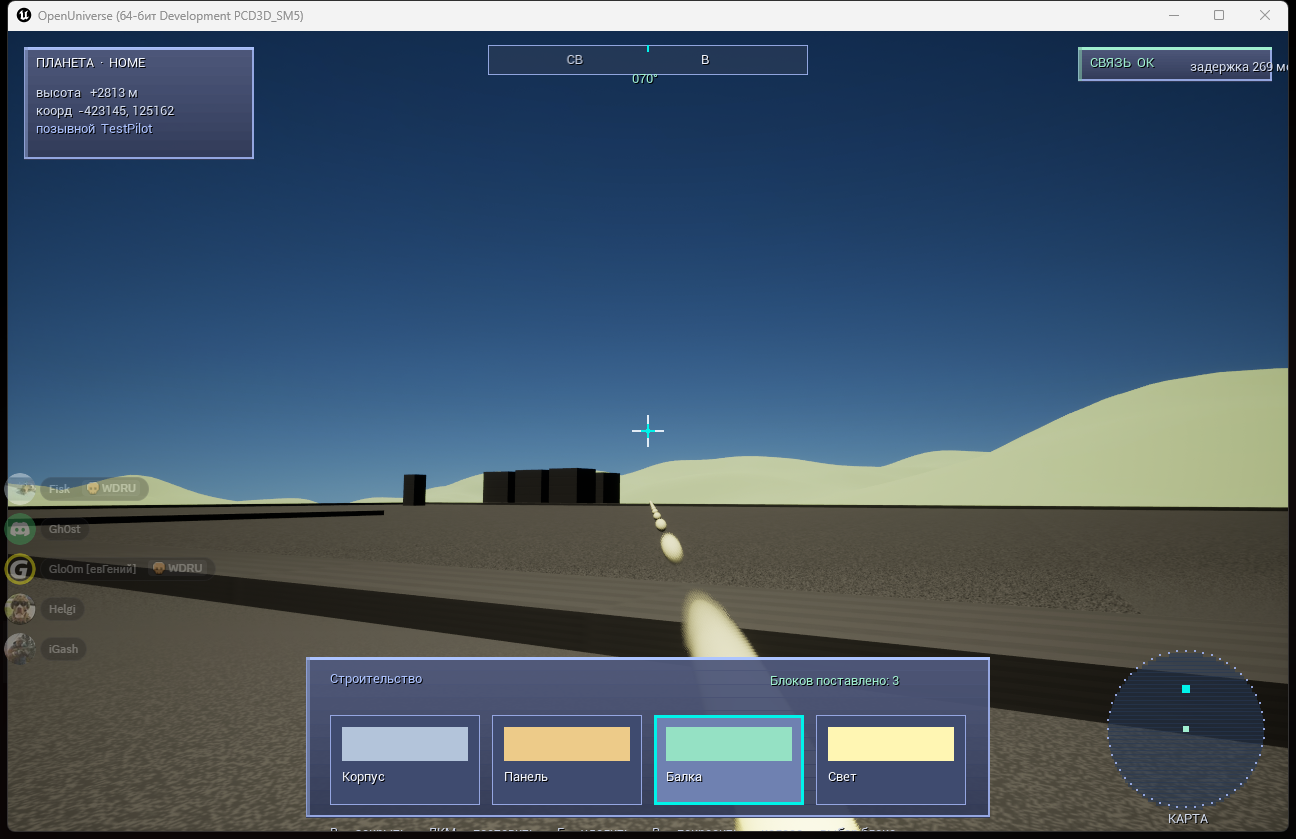
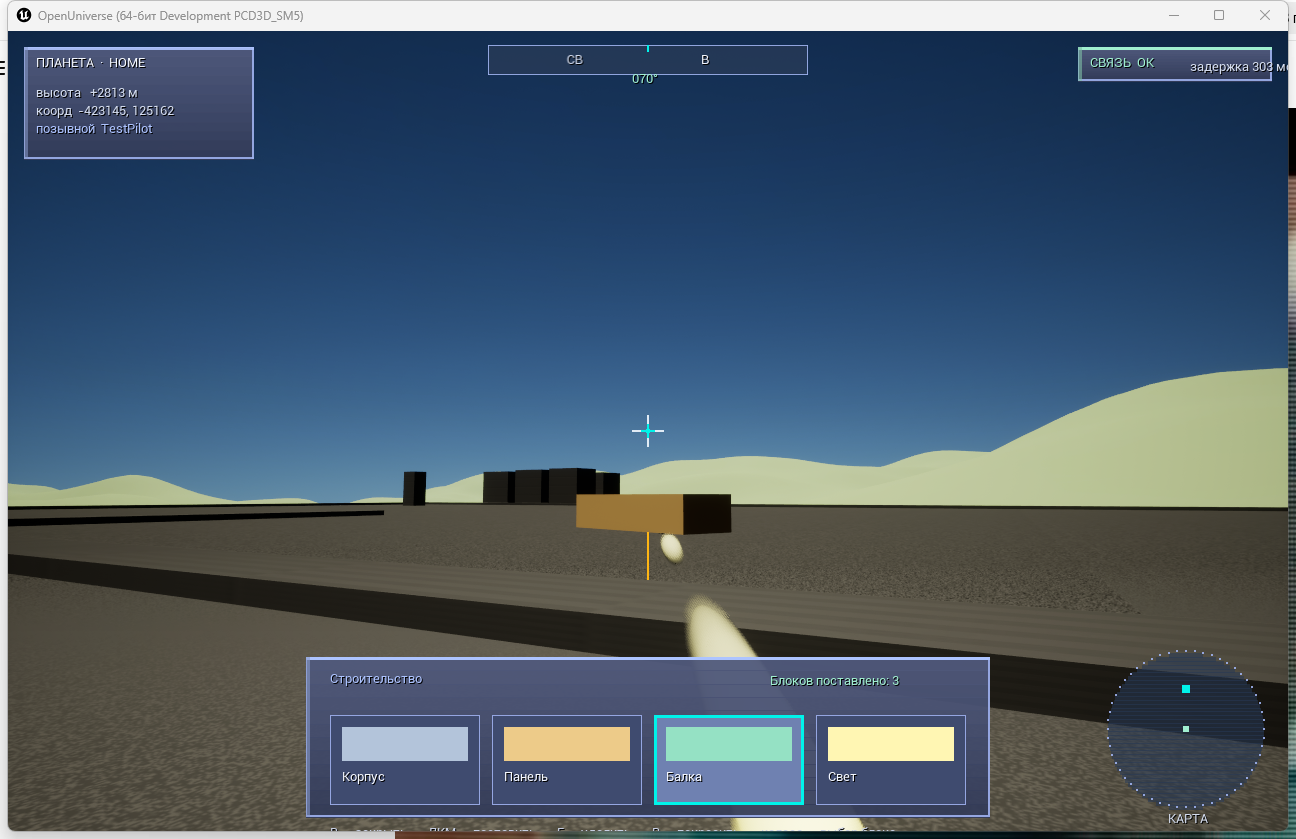
feat(client): voxel terraces around base (DU-style steps) instead of smooth ramp

diff --git a/client/Source/OpenUniverse/OUVoxelPlanet.cpp b/client/Source/OpenUniverse/OUVoxelPlanet.cpp
@@ -81,6 +81,13 @@ AOUVoxelPlanet::AOUVoxelPlanet()
 	LocalMesh->bUseAsyncCooking = true;
 	LocalMesh->SetCollisionEnabled(ECollisionEnabled::NoCollision);
 
+	// Воксельная площадка базы: свой мелкий меш (ступени). Коллизию не даём —
+	// физику ведёт «земля» персонажа по той же формуле террас.
+	PadMesh = CreateDefaultSubobject<UProceduralMeshComponent>(TEXT("BasePadVoxelMesh"));
+	PadMesh->SetupAttachment(Mesh);
+	PadMesh->bUseAsyncCooking = true;
+	PadMesh->SetCollisionEnabled(ECollisionEnabled::NoCollision);
+
 	// Материал обязателен: без него процедурный меш в UE не виден.
 	// Берём материал, который рисует **цвет вершин** — иначе планета была бы
 	// однотонно-белой и весь рельеф (вода/песок/трава/снег) потерялся бы.
@@ -263,8 +270,9 @@ float AOUVoxelPlanet::HeightAt(const FVector& Direction) const
 
 double AOUVoxelPlanet::PadFlattenCm(const FVector& DirUE)
 {
-	// Выравнивание площадки базы: внутри — плоский пол на уровне самой высокой
-	// земли площадки + подъём, у края — плавный пандус к рельефу, дальше — ноль.
+	// Рельеф площадки базы: ВНУТРИ — плоский пол, ПО КРАЮ — воксельные
+	// террасы (ступени), а не гладкий пандус. Так на базу поднимаешься по
+	// ступенькам, как в Dual Universe.
 	//
 	// ВАЖНО: центр базы и уровень пола ПОСТОЯННЫ, а функция вызывается на каждой
 	// вершине меша и при каждом шаге персонажа. `HomeSpawn` внутри создаёт
@@ -289,14 +297,45 @@ double AOUVoxelPlanet::PadFlattenCm(const FVector& DirUE)
 	static const double DeckAbs = R + static_cast<double>(DeckLevelAboveCenterCm());
 	// Аналитическая земля в этой точке (в см над центром планеты).
 	const double Here = R + AnalyticHeightCm(D);
-	const double Delta = DeckAbs - Here;
+	// Сколько надо «срезать» (cut) или «досыпать» (fill), чтобы выйти на пол.
+	const double Span = DeckAbs - Here;
 	if (DistCm <= PadR)
 	{
-		return Delta;                                  // ровный пол
+		return Span;                                   // ровный пол площадки
 	}
-	const double T0 = (DistCm - PadR) / RampW;
-	const double T = T0 * T0 * (3.0 - 2.0 * T0);       // smoothstep
-	return Delta * (1.0 - T);                          // пандус к рельефу
+	// --- Воксельные террасы ---
+	// Полный перепад Span делим на целое число ступеней по ~1 вокселю, поэтому
+	// ВНЕШНЯЯ ступень ровно ложится на рельеф (без уступа у самой земли).
+	const double Voxel = static_cast<double>(PadVoxelCm);
+	double Steps = FMath::Max(1.0, FMath::RoundToDouble(FMath::Abs(Span) / Voxel));
+	const double Step = Span / Steps;                  // знак учитывает cut/fill
+	const double T = (DistCm - PadR) / RampW;          // 0..1 вдоль пандуса
+	const double K = FMath::Clamp(FMath::Floor(T * Steps + 1e-6), 0.0, Steps);
+	const double H = DeckAbs - K * Step;               // высота ступени (абс.)
+	return H - Here;
+}
+
+double AOUVoxelPlanet::PadDistanceCm(const FVector& DirUE)
+{
+	// Дуговое расстояние (см) от центра базы до направления — в тех же осях,
+	// что и высота. 0 в центре базы.
+	//
+	// Кэш (static): функция вызывается на КАЖДОЙ ячейке меша, а `HomeSpawn`
+	// создаёт объект планеты — без кэша это миллионы аллокаций и зависание.
+	static const FVector BaseCenter = AOUVoxelPlanet::HomeSpawn(3.0f);
+	if (BaseCenter.IsNearlyZero())
+	{
+		return 1e18;
+	}
+	const FVector UpB = BaseCenter.GetSafeNormal();
+	const FVector D = DirUE.GetSafeNormal();
+	if (UpB.IsNearlyZero() || D.IsNearlyZero())
+	{
+		return 1e18;
+	}
+	const double R = static_cast<double>(BaseCenter.Size());
+	const double CosA = FMath::Clamp(FVector::DotProduct(D, UpB), -1.0, 1.0);
+	return FMath::Acos(CosA) * R;
 }
 
 double AOUVoxelPlanet::DeckLevelAboveCenterCm()
@@ -723,6 +762,10 @@ void AOUVoxelPlanet::BuildPlanet()
 
 	UE_LOG(LogOUPlanet, Log, TEXT("Планета построена: LOD сегментов %d, секций %d"), Seg, SectionIndex);
 
+	// Воксельная площадка базы: отдельный мелкий меш со ступенями (глобальный
+	// меш слишком грубый, чтобы их показать).
+	BuildPadMesh();
+
 	// Атмосфера и облака зависят от типа планеты (у безвоздушных их нет).
 	BuildAtmosphere();
 }
@@ -806,6 +849,14 @@ void AOUVoxelPlanet::RebuildLocal(const FVector& AroundUE)
 	{
 		for (int32 I = 0; I < N; ++I)
 		{
+			// Внутри площадки базы ячейку НЕ рисуем: там свой мелкий воксельный
+			// меш ступеней, а грубая ячейка (~21 м) перекрыла бы его и торчала
+			// бы сквозь ровный пол.
+			const int32 A0 = J * (N + 1) + I;
+			if (PadDistanceCm(Verts[A0].GetSafeNormal()) < PadOuterRadiusCm)
+			{
+				continue;
+			}
 			const int32 A = J * (N + 1) + I;
 			const int32 B = A + 1;
 			const int32 C = A + (N + 1);
@@ -829,6 +880,171 @@ void AOUVoxelPlanet::RebuildLocal(const FVector& AroundUE)
 	LocalMesh->CreateMeshSection_LinearColor(0, Verts, Tris, Normals, UVs, Colors, Tangents, false);
 	LocalMesh->SetMaterial(0, PlanetMaterial);
 	UE_LOG(LogOUPlanet, Log, TEXT("Локальный участок вокруг игрока: ячеек %d, шаг %.0f см"), N, Step);
+}
+
+void AOUVoxelPlanet::BuildPadMesh()
+{
+	if (!PadMesh || !bHomePlanet || Radius <= 0.f)
+	{
+		return;
+	}
+	PadMesh->ClearAllMeshSections();
+
+	// Площадка + её террасный ворот: строим сеткой в касательной плоскости
+	// вокруг центра базы. Шаг — вылет ступени (~3 м), чтобы каждая ступень была
+	// ровной квадратной «плиткой», а не наклоном.
+	const FVector CenterUE = AOUVoxelPlanet::HomeSpawn(3.0f);
+	const FVector DirUE = CenterUE.GetSafeNormal();
+	if (DirUE.IsNearlyZero())
+	{
+		return;
+	}
+	// Касательный базис (как у постройки базы: forward задаём от «вправо»).
+	FVector Ref = FVector::CrossProduct(DirUE, FVector::UpVector);
+	if (Ref.SizeSquared() < 1e-4f)
+	{
+		Ref = FVector::CrossProduct(DirUE, FVector::RightVector);
+	}
+	Ref = Ref.GetSafeNormal();
+	const FVector T1 = FVector::CrossProduct(Ref, DirUE).GetSafeNormal();  // forward
+	const FVector T2 = FVector::CrossProduct(DirUE, T1).GetSafeNormal();   // right
+
+	// Граница меша: площадка + ворот террас (ширина пандуса у базы = 0.35*PadR).
+	const double PadR = static_cast<double>(PadFlatRadius);
+	const double RampW = PadR * 0.35;
+	const float Reach = static_cast<float>(PadR + RampW) * 1.06f;   // + запас
+	const float Step = PadVoxelRunCm;                              // ~3 м
+	const int32 N = FMath::Clamp(FMath::CeilToInt(2.f * Reach / Step), 8, 512);
+	const float Cell = (2.f * Reach) / N;
+
+	// Высота ВЕРХА террас в узле (см над центром планеты) — ровные ступени.
+	auto TopAboveCenter = [&](const FVector& Dir) -> double
+	{
+		return PadGroundAboveCenterCm(Dir);
+	};
+
+	// Высоту узла берём из центра ячейки (иначе узел на границе ступеней даёт
+	// наклон). Сетка вершин: (N+1)^2.
+	TArray<FVector> Verts;
+	TArray<int32> Tris;
+	TArray<FVector> Normals;
+	TArray<FVector2D> UVs;
+	TArray<FLinearColor> Colors;
+	TArray<struct FProcMeshTangent> Tangents;
+	Verts.Reserve((N + 1) * (N + 1));
+
+	TArray<double> NodeHeight;                 // высота (см над центром) верха
+	NodeHeight.Reserve((N + 1) * (N + 1));
+	for (int32 J = 0; J <= N; ++J)
+	{
+		for (int32 I = 0; I <= N; ++I)
+		{
+			const float A = -Reach + I * Cell;     // вдоль T1
+			const float B = -Reach + J * Cell;     // вдоль T2
+			// Направление узла (проекция точки на сферу).
+			const FVector Tangent = DirUE * static_cast<float>(CenterUE.Size()) + T1 * A + T2 * B;
+			const FVector Dir = Tangent.GetSafeNormal();
+			const double H = TopAboveCenter(Dir);
+			const FVector P = Dir * static_cast<float>(CenterUE.Size() + H);
+			Verts.Add(P);
+			NodeHeight.Add(H);
+			// Плоская нормаль вверх (воксельные плато ровные).
+			Normals.Add(Dir);
+			UVs.Add(FVector2D(static_cast<float>(I) / N, static_cast<float>(J) / N));
+			// Цвет — по высоте ОТНОСИТЕЛЬНО радиуса планеты (как у меша планеты).
+			Colors.Add(ShadedVertexColor(static_cast<float>(H - CenterUE.Size()), Dir));
+			Tangents.Add(FProcMeshTangent(T1.X, T1.Y, T1.Z));
+		}
+	}
+
+	// Верхние грани — ТОЛЬКО там, где соседи на одной высоте (в пределах
+	// полувокселя). Между разными уровнями вместо наклона ставим вертикальную
+	// стенку (ниже) — так и получается «воксельная» кромка.
+	const double SameTol = static_cast<double>(PadVoxelCm) * 0.5;
+	auto VIdx = [&](int32 I, int32 J) { return J * (N + 1) + I; };
+	for (int32 J = 0; J < N; ++J)
+	{
+		for (int32 I = 0; I < N; ++I)
+		{
+			const double H00 = NodeHeight[VIdx(I, J)];
+			const double H10 = NodeHeight[VIdx(I + 1, J)];
+			const double H01 = NodeHeight[VIdx(I, J + 1)];
+			const double H11 = NodeHeight[VIdx(I + 1, J + 1)];
+			const double Hmin = FMath::Min(FMath::Min(H00, H10), FMath::Min(H01, H11));
+			const double Hmax = FMath::Max(FMath::Max(H00, H10), FMath::Max(H01, H11));
+			if (Hmax - Hmin > SameTol)
+			{
+				continue;   // ячейка на перепаде — тут будет стенка, не крышка
+			}
+			const int32 A = VIdx(I, J);
+			const int32 B = VIdx(I + 1, J);
+			const int32 C = VIdx(I, J + 1);
+			const int32 D = VIdx(I + 1, J + 1);
+			Tris.Add(A); Tris.Add(C); Tris.Add(B);
+			Tris.Add(B); Tris.Add(C); Tris.Add(D);
+		}
+	}
+
+	// Вертикальные стенки на границах уровней: для каждой пары соседних ячеек
+	// с разной высотой добавляем вертикальный прямоугольник от нижнего уровня до
+	// верхнего. Стенку ставим по РЁБРАМ ячеек (общая грань), с двусторонней
+	// намоткой — видна с любой стороны.
+	auto AddQuad = [&](const FVector& P0, const FVector& P1, const FVector& P2, const FVector& P3,
+		const FVector& N, int32 C0, int32 C1)
+	{
+		// Цвета берём ПО ЗНАЧЕНИЮ до расширения массива: `Colors.Add(Colors[X])`
+		// передаёт ссылку на элемент того же массива, который растёт и может
+		// перевыделиться — это ловит проверку контейнера (assert).
+		const FLinearColor Col0 = Colors[C0];
+		const FLinearColor Col1 = Colors[C1];
+		const int32 Base = Verts.Num();
+		Verts.Add(P0); Verts.Add(P1); Verts.Add(P2); Verts.Add(P3);
+		for (int32 K = 0; K < 4; ++K)
+		{
+			Normals.Add(N);
+			UVs.Add(FVector2D(K == 0 || K == 3 ? 0.f : 1.f, K < 2 ? 0.f : 1.f));
+			Colors.Add(K < 2 ? Col0 : Col1);
+			Tangents.Add(FProcMeshTangent(T1.X, T1.Y, T1.Z));
+		}
+		Tris.Add(Base + 0); Tris.Add(Base + 1); Tris.Add(Base + 2);
+		Tris.Add(Base + 0); Tris.Add(Base + 2); Tris.Add(Base + 3);
+		// Обратная сторона.
+		Tris.Add(Base + 0); Tris.Add(Base + 2); Tris.Add(Base + 1);
+		Tris.Add(Base + 0); Tris.Add(Base + 3); Tris.Add(Base + 2);
+	};
+	// Между соседними узлами по I (грань вдоль T2) и по J (грань вдоль T1).
+	auto WallBetween = [&](int32 IA, int32 JA, int32 IB, int32 JB)
+	{
+		const double HA = NodeHeight[VIdx(IA, JA)];
+		const double HB = NodeHeight[VIdx(IB, JB)];
+		if (FMath::Abs(HA - HB) <= SameTol)
+		{
+			return;
+		}
+		const double Hi = FMath::Max(HA, HB);
+		const double Lo = FMath::Min(HA, HB);
+		const FVector DA = Verts[VIdx(IA, JA)].GetSafeNormal();
+		const FVector DB = Verts[VIdx(IB, JB)].GetSafeNormal();
+		const FVector PA0 = DA * static_cast<float>(CenterUE.Size() + Lo);
+		const FVector PB0 = DB * static_cast<float>(CenterUE.Size() + Lo);
+		const FVector PA1 = DA * static_cast<float>(CenterUE.Size() + Hi);
+		const FVector PB1 = DB * static_cast<float>(CenterUE.Size() + Hi);
+		const FVector Nrm = FVector::CrossProduct(DA, DB).GetSafeNormal();
+		AddQuad(PA0, PB0, PB1, PA1, Nrm, VIdx(IA, JA), VIdx(IB, JB));
+	};
+	for (int32 J = 0; J <= N; ++J)
+	{
+		for (int32 I = 0; I <= N; ++I)
+		{
+			if (I < N) { WallBetween(I, J, I + 1, J); }
+			if (J < N) { WallBetween(I, J, I, J + 1); }
+		}
+	}
+
+	PadMesh->CreateMeshSection_LinearColor(0, Verts, Tris, Normals, UVs, Colors, Tangents, false);
+	PadMesh->SetMaterial(0, PlanetMaterial);
+	UE_LOG(LogOUPlanet, Log, TEXT("Воксельная площадка базы: сетка %d, шаг %.0f см, ступень %.0f см"),
+		N, Cell, PadVoxelCm);
 }
 
 bool AOUVoxelPlanet::TypeHasAtmosphere(EOUPlanetType Type)

diff --git a/client/Source/OpenUniverse/OUVoxelPlanet.h b/client/Source/OpenUniverse/OUVoxelPlanet.h
@@ -137,10 +137,12 @@ public:
 	double SpawnRoughnessServer(const FVector& DirServer, double RadiusM) const;
 
 	/**
-	 * Выравнивание площадки базы в направлении (см). Ноль вне площадки.
+	 * Рельеф площадки базы в направлении (см): плоский пол внутри и
+	 * ВОКСЕЛЬНЫЕ ТЕРРАСЫ (ступени) по краю, а не гладкий пандус.
 	 *
 	 * Единая точка правды: визуальный меш планеты и земля персонажа берут эту
-	 * функцию, поэтому пол базы ровный, а по краю идёт плавный пандус к рельефу.
+	 * функцию, поэтому пол базы ровный, а на базу поднимаешься по воксельным
+	 * ступеням — как в Dual Universe.
 	 */
 	static double PadFlattenCm(const FVector& DirUE);
 
@@ -149,6 +151,39 @@ public:
 
 	/** Насколько площадка приподнята над максимумом земли под ней, см. */
 	static constexpr float PadLift = 40.f;
+
+	/** Высота одной воксельной ступени площадки, см (1 м — как воксель DU). */
+	static constexpr float PadVoxelCm = 100.f;
+
+	/** Вылет одной воксельной ступени по горизонтали, см. */
+	static constexpr float PadVoxelRunCm = 300.f;
+
+	/** Внешний радиус влияния площадки (пол + террасы), см. */
+	static constexpr float PadOuterRadiusCm = PadFlatRadius * 1.35f;
+
+	/** Дуговое расстояние (см) от центра базы до направления (0 — центр). */
+	static double PadDistanceCm(const FVector& DirUE);
+
+	/**
+	 * Абсолютная высота земли площадки (см над центром планеты) в направлении:
+	 * рельеф + воксельные террасы `PadFlattenCm`. По ней строится воксельный меш
+	 * площадки и ставятся постройки.
+	 */
+	static double PadGroundAboveCenterCm(const FVector& DirUE)
+	{
+		return AnalyticHeightCm(DirUE) + PadFlattenCm(DirUE);
+	}
+
+	/**
+	 * Построить ВОКСЕЛЬНЫЙ меш площадки базы (ступени) вокруг её центра.
+	 *
+	 * Глобальный меш планеты (~1.5 км/ячейка) и плотный локальный участок
+	 * (~21 м) слишком грубы, чтобы показать ступени по ~1 м. Поэтому площадка
+	 * рисуется отдельным мелким мешем: верхние грани — по высоте террас, а на
+	 * перепадах добавляются ВЕРТИКАЛЬНЫЕ стенки-воксели (иначе ступени были бы
+	 * наклонными).
+	 */
+	void BuildPadMesh();
 
 	/** Уровень пола площадки над центром планеты, см (макс. земля + подъём). */
 	static double DeckLevelAboveCenterCm();
@@ -243,6 +278,14 @@ protected:
 	/** Локальный детальный участок поверхности вокруг игрока (отдельный меш). */
 	UPROPERTY(VisibleAnywhere, BlueprintReadOnly, Category = "Open Universe|Planet")
 	UProceduralMeshComponent* LocalMesh = nullptr;
+
+	/**
+	 * Воксельный меш площадки базы (ступени). Отдельный мелкий меш: глобальный
+	 * меш (~1.5 км/ячейка) и локальный участок (~21 м) не показывают ступени по
+	 * ~1 м, поэтому площадка рисуется своей сеткой.
+	 */
+	UPROPERTY(VisibleAnywhere, BlueprintReadOnly, Category = "Open Universe|Planet")
+	UProceduralMeshComponent* PadMesh = nullptr;
 
 	/** Слой атмосферы: чуть больше планеты, полупрозрачный ореол. */
 	UPROPERTY(VisibleAnywhere, BlueprintReadOnly, Category = "Open Universe|Planet")
